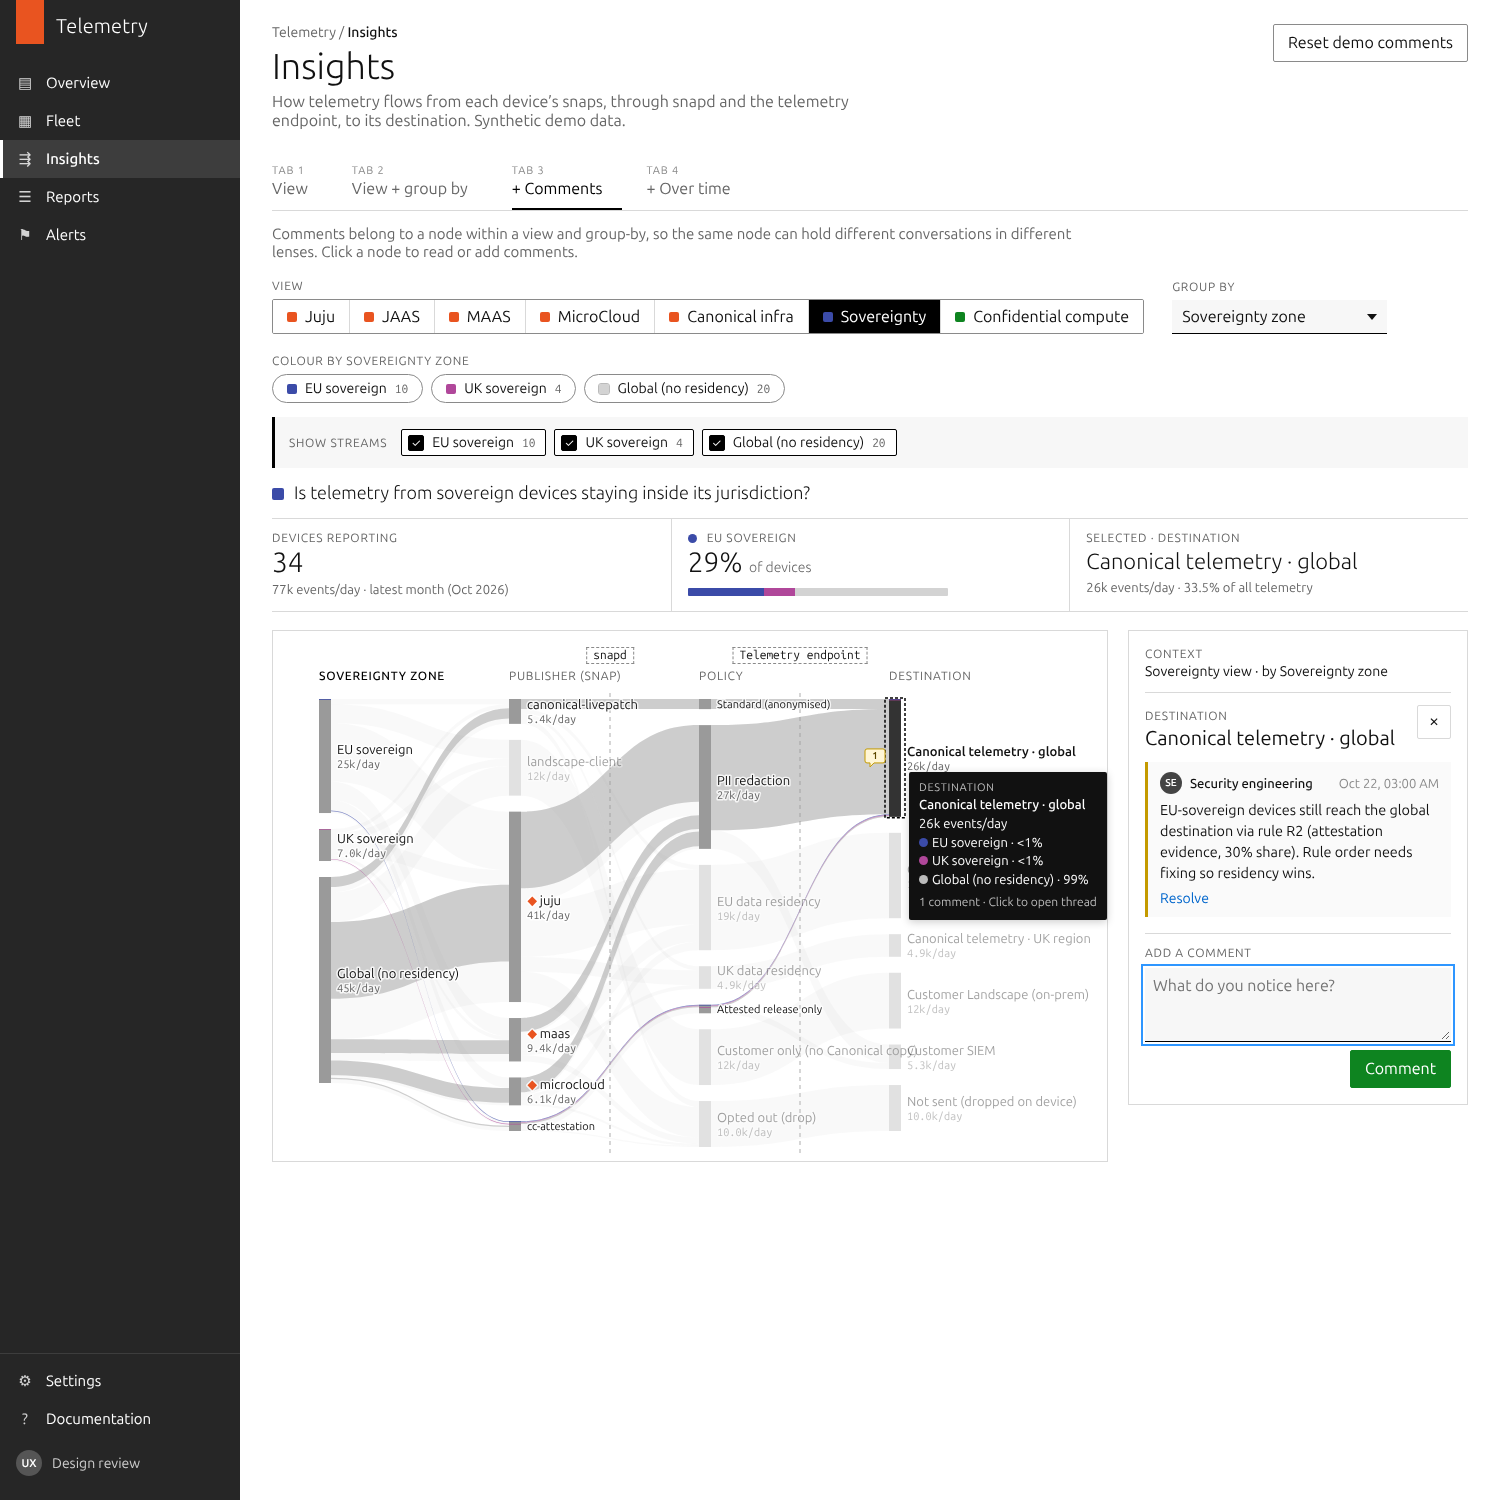
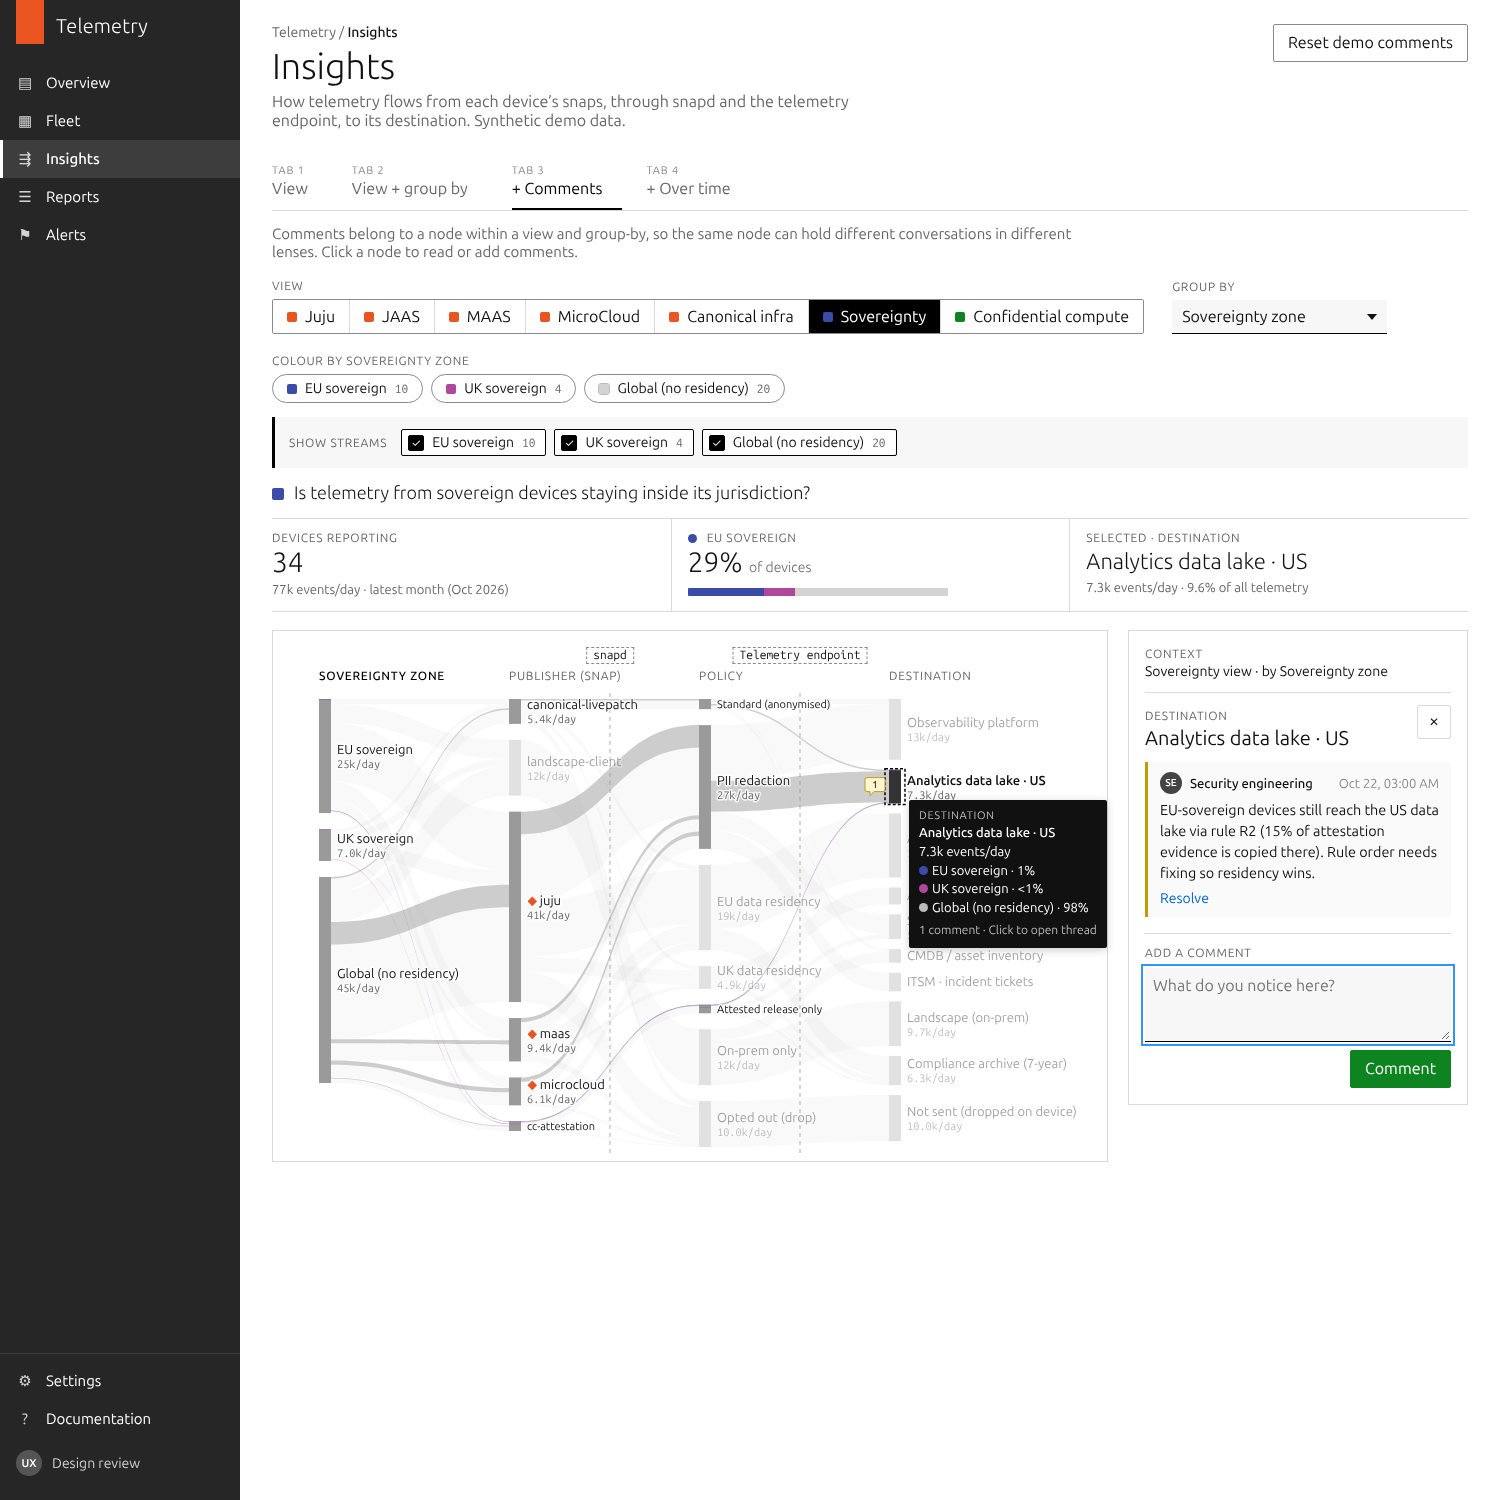
Replace Canonical telemetry destinations with customer systems
Destinations are now the kind of internal systems a large enterprise
routes telemetry to: observability platform, regional analytics data
lakes (US/EU/UK), security SIEM, CMDB, ITSM, Landscape, compliance
archive. Each records the zone it stores data in. Routing rules and the
seeded sovereignty comment are updated to match.

Claude-Session: https://claude.ai/code/session_0156BKrAD5wHGfcWHmuamSMf

diff --git a/js/data.js b/js/data.js
@@ -122,15 +122,22 @@ window.TL = window.TL || {};
     { id: 'eu-res', label: 'EU data residency' },
     { id: 'uk-res', label: 'UK data residency' },
     { id: 'attested', label: 'Attested release only' },
-    { id: 'local', label: 'Customer only (no Canonical copy)' },
+    { id: 'local', label: 'On-prem only' },
     { id: 'drop', label: 'Opted out (drop)' }] };
+  // Destinations are the customer's own systems (illustrative roles for a
+  // large enterprise). `zone` = where the system stores data, used to spot
+  // telemetry leaving its residency zone.
   const DESTINATIONS = { label: 'Destination', values: [
-    { id: 'canonical-global', label: 'Canonical telemetry · global' },
-    { id: 'canonical-eu', label: 'Canonical telemetry · EU region' },
-    { id: 'canonical-uk', label: 'Canonical telemetry · UK region' },
-    { id: 'landscape', label: 'Customer Landscape (on-prem)' },
-    { id: 'siem', label: 'Customer SIEM' },
-    { id: 'discard', label: 'Not sent (dropped on device)' }] };
+    { id: 'observability', label: 'Observability platform', zone: 'us' },
+    { id: 'lake-us', label: 'Analytics data lake · US', zone: 'us' },
+    { id: 'lake-eu', label: 'Analytics data lake · EU', zone: 'eu' },
+    { id: 'lake-uk', label: 'Analytics data lake · UK', zone: 'uk' },
+    { id: 'siem', label: 'Security SIEM (SOC)', zone: 'us' },
+    { id: 'cmdb', label: 'CMDB / asset inventory', zone: 'us' },
+    { id: 'itsm', label: 'ITSM · incident tickets', zone: 'us' },
+    { id: 'landscape', label: 'Landscape (on-prem)', zone: 'onprem' },
+    { id: 'archive', label: 'Compliance archive (7-year)', zone: 'onprem' },
+    { id: 'discard', label: 'Not sent (dropped on device)', zone: 'device' }] };
 
   // ---- Policy rules (ordered, first match wins) -----------------------
   // `when` matches device attributes and/or publisher; `to` lists
@@ -139,12 +146,12 @@ window.TL = window.TL || {};
   //   'endpoint' – at the telemetry endpoint, after demultiplexing
   const ROUTING = [
     { id: 'R1', at: 'snapd', when: { consent: 'optout' }, policy: 'drop', to: [['discard', 1]] },
-    { id: 'R2', at: 'endpoint', when: { publisher: 'attest' }, policy: 'attested', to: [['siem', 0.7], ['canonical-global', 0.3]] },
-    { id: 'R3', at: 'endpoint', when: { publisher: 'landscape' }, policy: 'local', to: [['landscape', 1]] },
-    { id: 'R4', at: 'endpoint', when: { sovereignty: 'eu' }, policy: 'eu-res', to: [['canonical-eu', 1]] },
-    { id: 'R5', at: 'endpoint', when: { sovereignty: 'uk' }, policy: 'uk-res', to: [['canonical-uk', 1]] },
-    { id: 'R6', at: 'snapd', when: { publisher: ['juju', 'maas', 'microcloud'] }, policy: 'redact', to: [['canonical-global', 0.85], ['siem', 0.15]] },
-    { id: 'R7', at: 'endpoint', when: {}, policy: 'standard', to: [['canonical-global', 1]] }
+    { id: 'R2', at: 'endpoint', when: { publisher: 'attest' }, policy: 'attested', to: [['siem', 0.6], ['archive', 0.25], ['lake-us', 0.15]] },
+    { id: 'R3', at: 'endpoint', when: { publisher: 'landscape' }, policy: 'local', to: [['landscape', 0.8], ['cmdb', 0.2]] },
+    { id: 'R4', at: 'endpoint', when: { sovereignty: 'eu' }, policy: 'eu-res', to: [['lake-eu', 0.75], ['archive', 0.25]] },
+    { id: 'R5', at: 'endpoint', when: { sovereignty: 'uk' }, policy: 'uk-res', to: [['lake-uk', 0.75], ['archive', 0.25]] },
+    { id: 'R6', at: 'snapd', when: { publisher: ['juju', 'maas', 'microcloud'] }, policy: 'redact', to: [['observability', 0.45], ['lake-us', 0.25], ['itsm', 0.15], ['siem', 0.15]] },
+    { id: 'R7', at: 'endpoint', when: {}, policy: 'standard', to: [['observability', 0.5], ['cmdb', 0.25], ['siem', 0.1], ['lake-us', 0.15]] }
   ];
   function route(attrs, publisher) {
     const ctx = Object.assign({ publisher: publisher }, attrs);

diff --git a/js/comments.js b/js/comments.js
@@ -20,7 +20,7 @@
  */
 (function (TL) {
   'use strict';
-  const KEY = 'tl.insights.comments.v3';
+  const KEY = 'tl.insights.comments.v4';
 
   const SEED = [
     { anchor: { view: 'juju', groupBy: 'juju', node: 'juju:2.9', period: null },
@@ -35,8 +35,8 @@
       author: 'Telemetry team', body: 'The maas snap is one of the largest publishers by volume. Worth checking its sampling rate in snapd.' },
     { anchor: { view: 'microcloud', groupBy: 'type', node: 'type:edge', period: null },
       author: 'Product · MicroCloud', body: 'Edge devices are where MicroCloud adoption is concentrated.' },
-    { anchor: { view: 'sovereignty', groupBy: 'sovereignty', node: 'destination:canonical-global', period: null },
-      author: 'Security engineering', body: 'EU-sovereign devices still reach the global destination via rule R2 (attestation evidence, 30% share). Rule order needs fixing so residency wins.' },
+    { anchor: { view: 'sovereignty', groupBy: 'sovereignty', node: 'destination:lake-us', period: null },
+      author: 'Security engineering', body: 'EU-sovereign devices still reach the US data lake via rule R2 (15% of attestation evidence is copied there). Rule order needs fixing so residency wins.' },
     { anchor: { view: 'sovereignty', groupBy: 'device', node: 'policy:eu-res', period: '2026-05' },
       author: 'Legal', body: 'EU residency policy roll-out lands here. Confirm the date with the customer before we present.' },
     { anchor: { view: 'confidential', groupBy: 'confidential', node: 'publisher:attest', period: '2026-08' },

diff --git a/README.md b/README.md
@@ -62,7 +62,7 @@ GROUP_BYS     ['device', …attributes]
 - Node ids are `"<dimension>:<value>"` (e.g. `juju:3.6`, `device:fra-metal-01`, `policy:eu-res`). They stay the same across time, views and group-bys.
 - Columns are top-aligned, so the top stream runs horizontally and lower streams rise into it. Node order is fixed, so playback doesn't reshuffle.
 
-The routing rules deliberately contain a realistic flaw. Rule R2 (attestation evidence, applied at the endpoint) comes before R4 (EU residency), so a little telemetry from EU-sovereign devices reaches the global destination. The Sovereignty view makes this visible, and a seeded comment flags it.
+The routing rules deliberately contain a realistic flaw. Rule R2 (attestation evidence, applied at the endpoint) comes before R4 (EU residency), so a little attestation evidence from EU-sovereign devices is copied to the US data lake. The Sovereignty view makes this visible, and a seeded comment flags it.
 
 ## Comments (`js/comments.js`)
 
